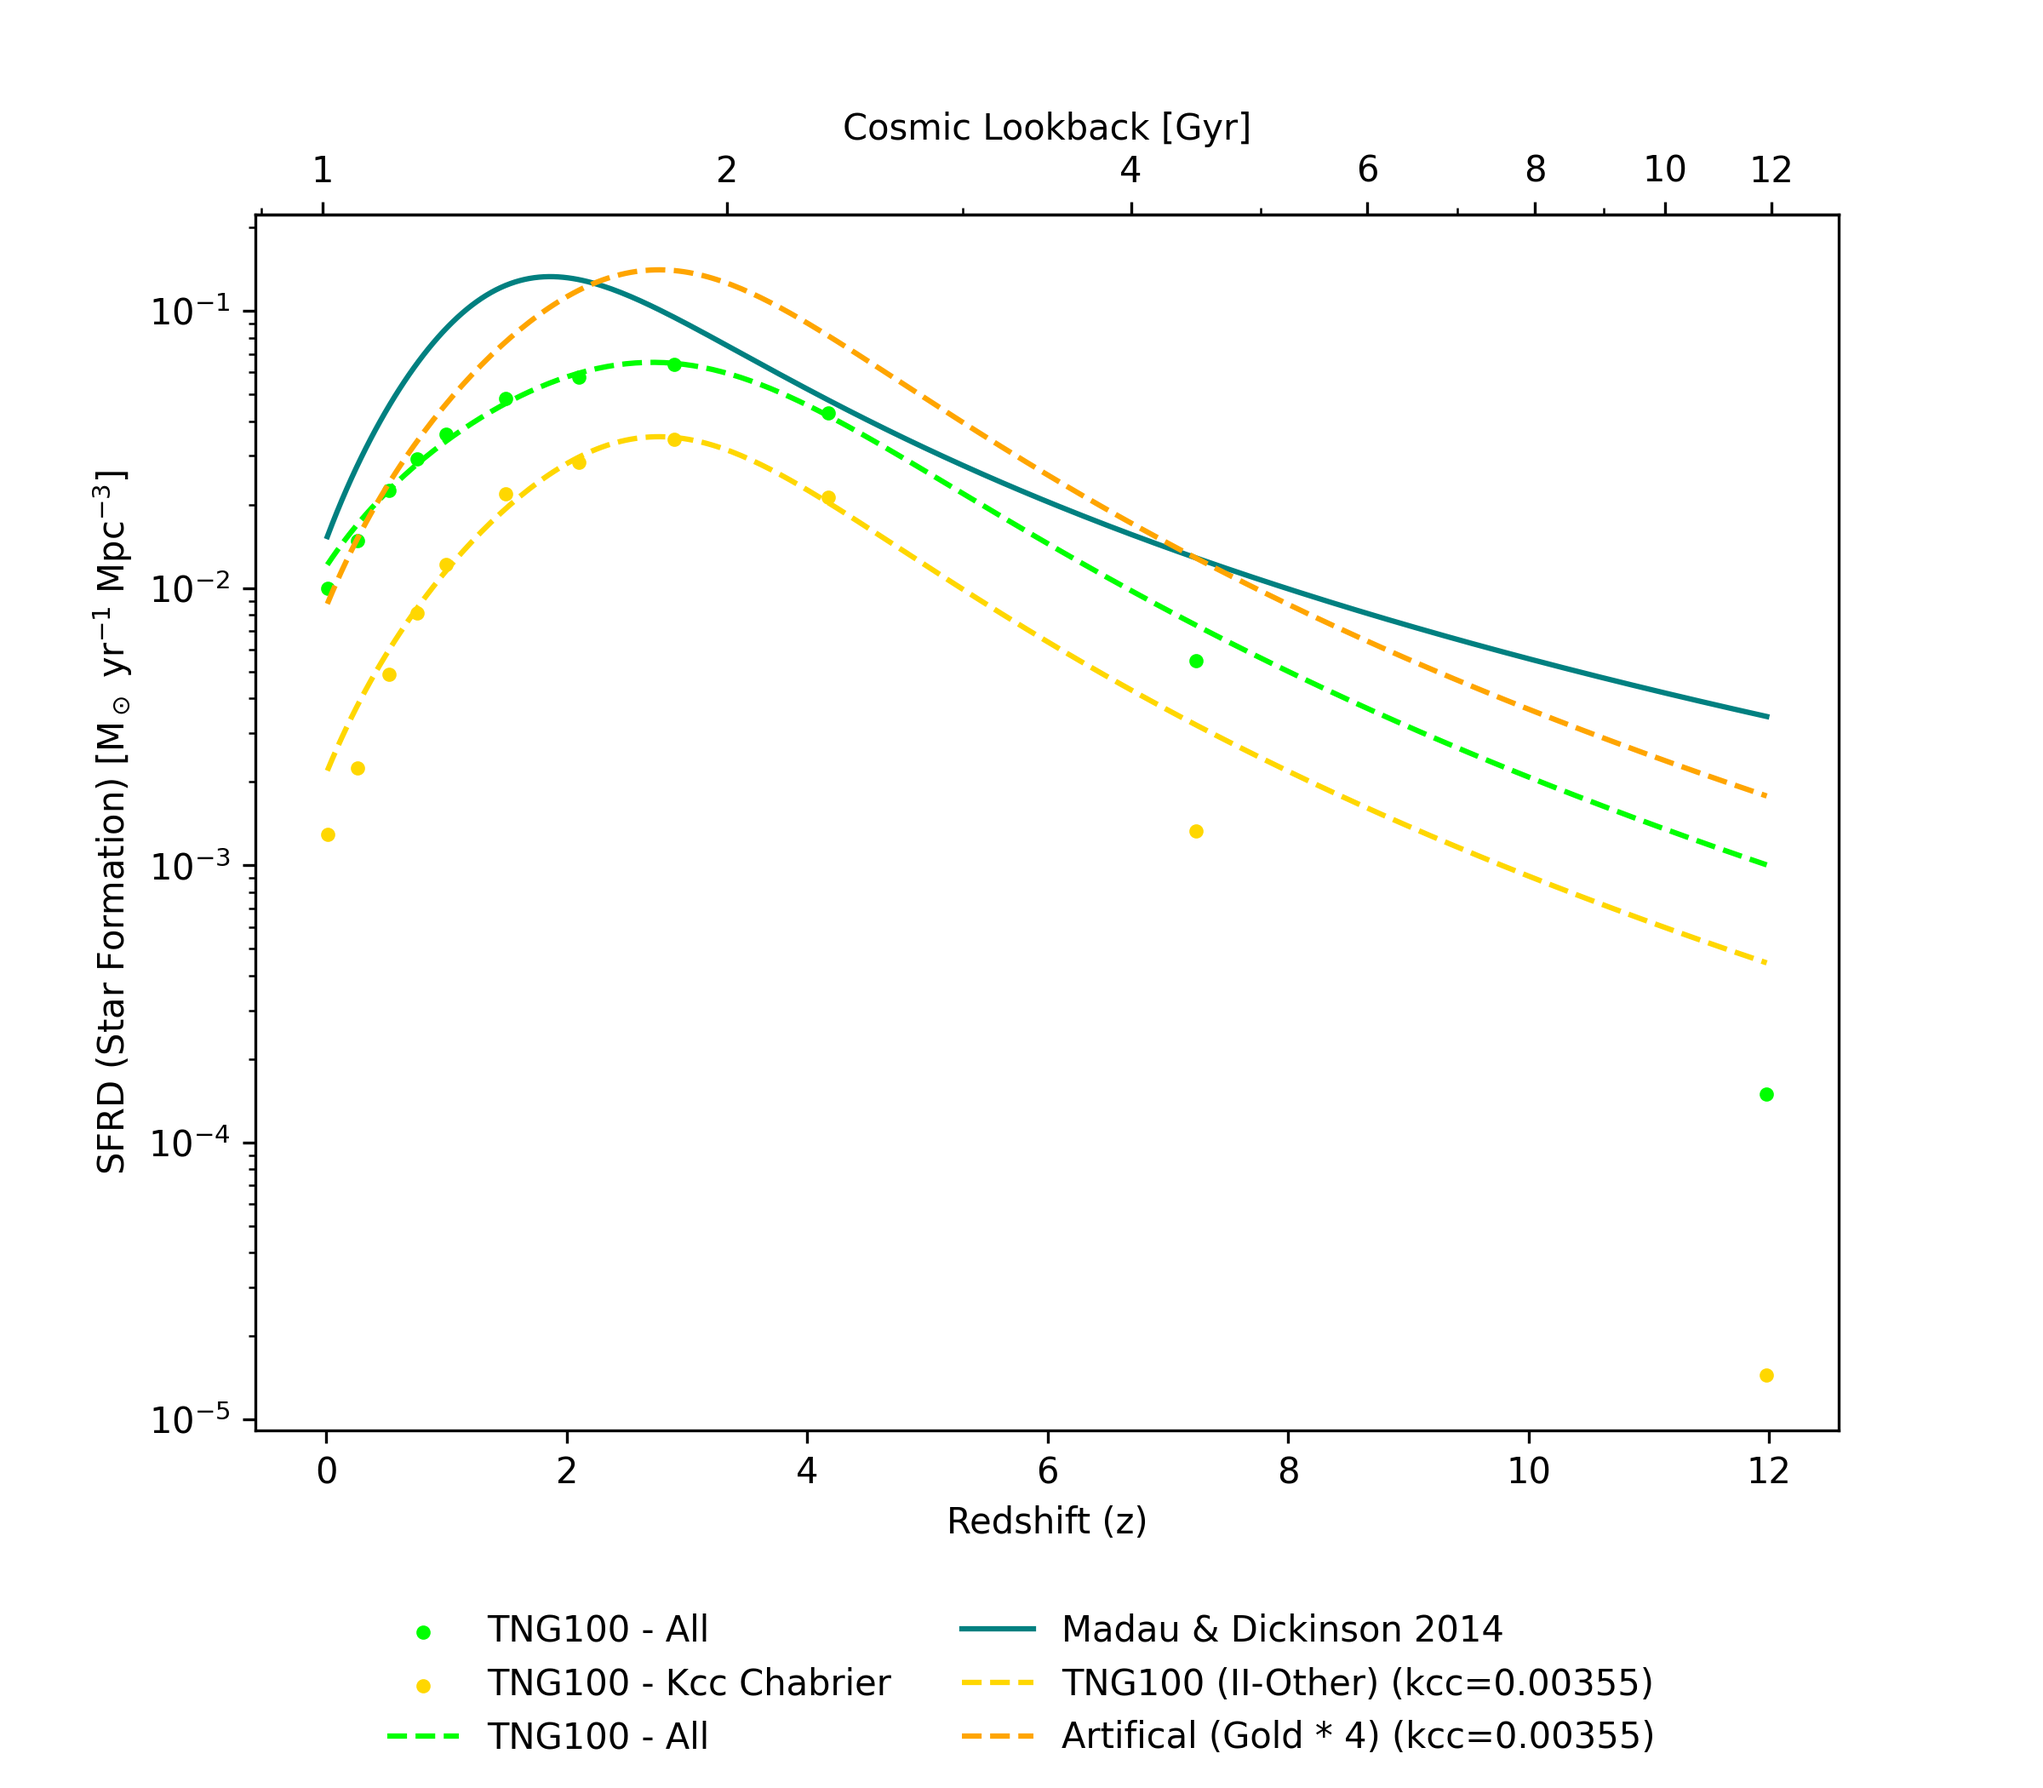
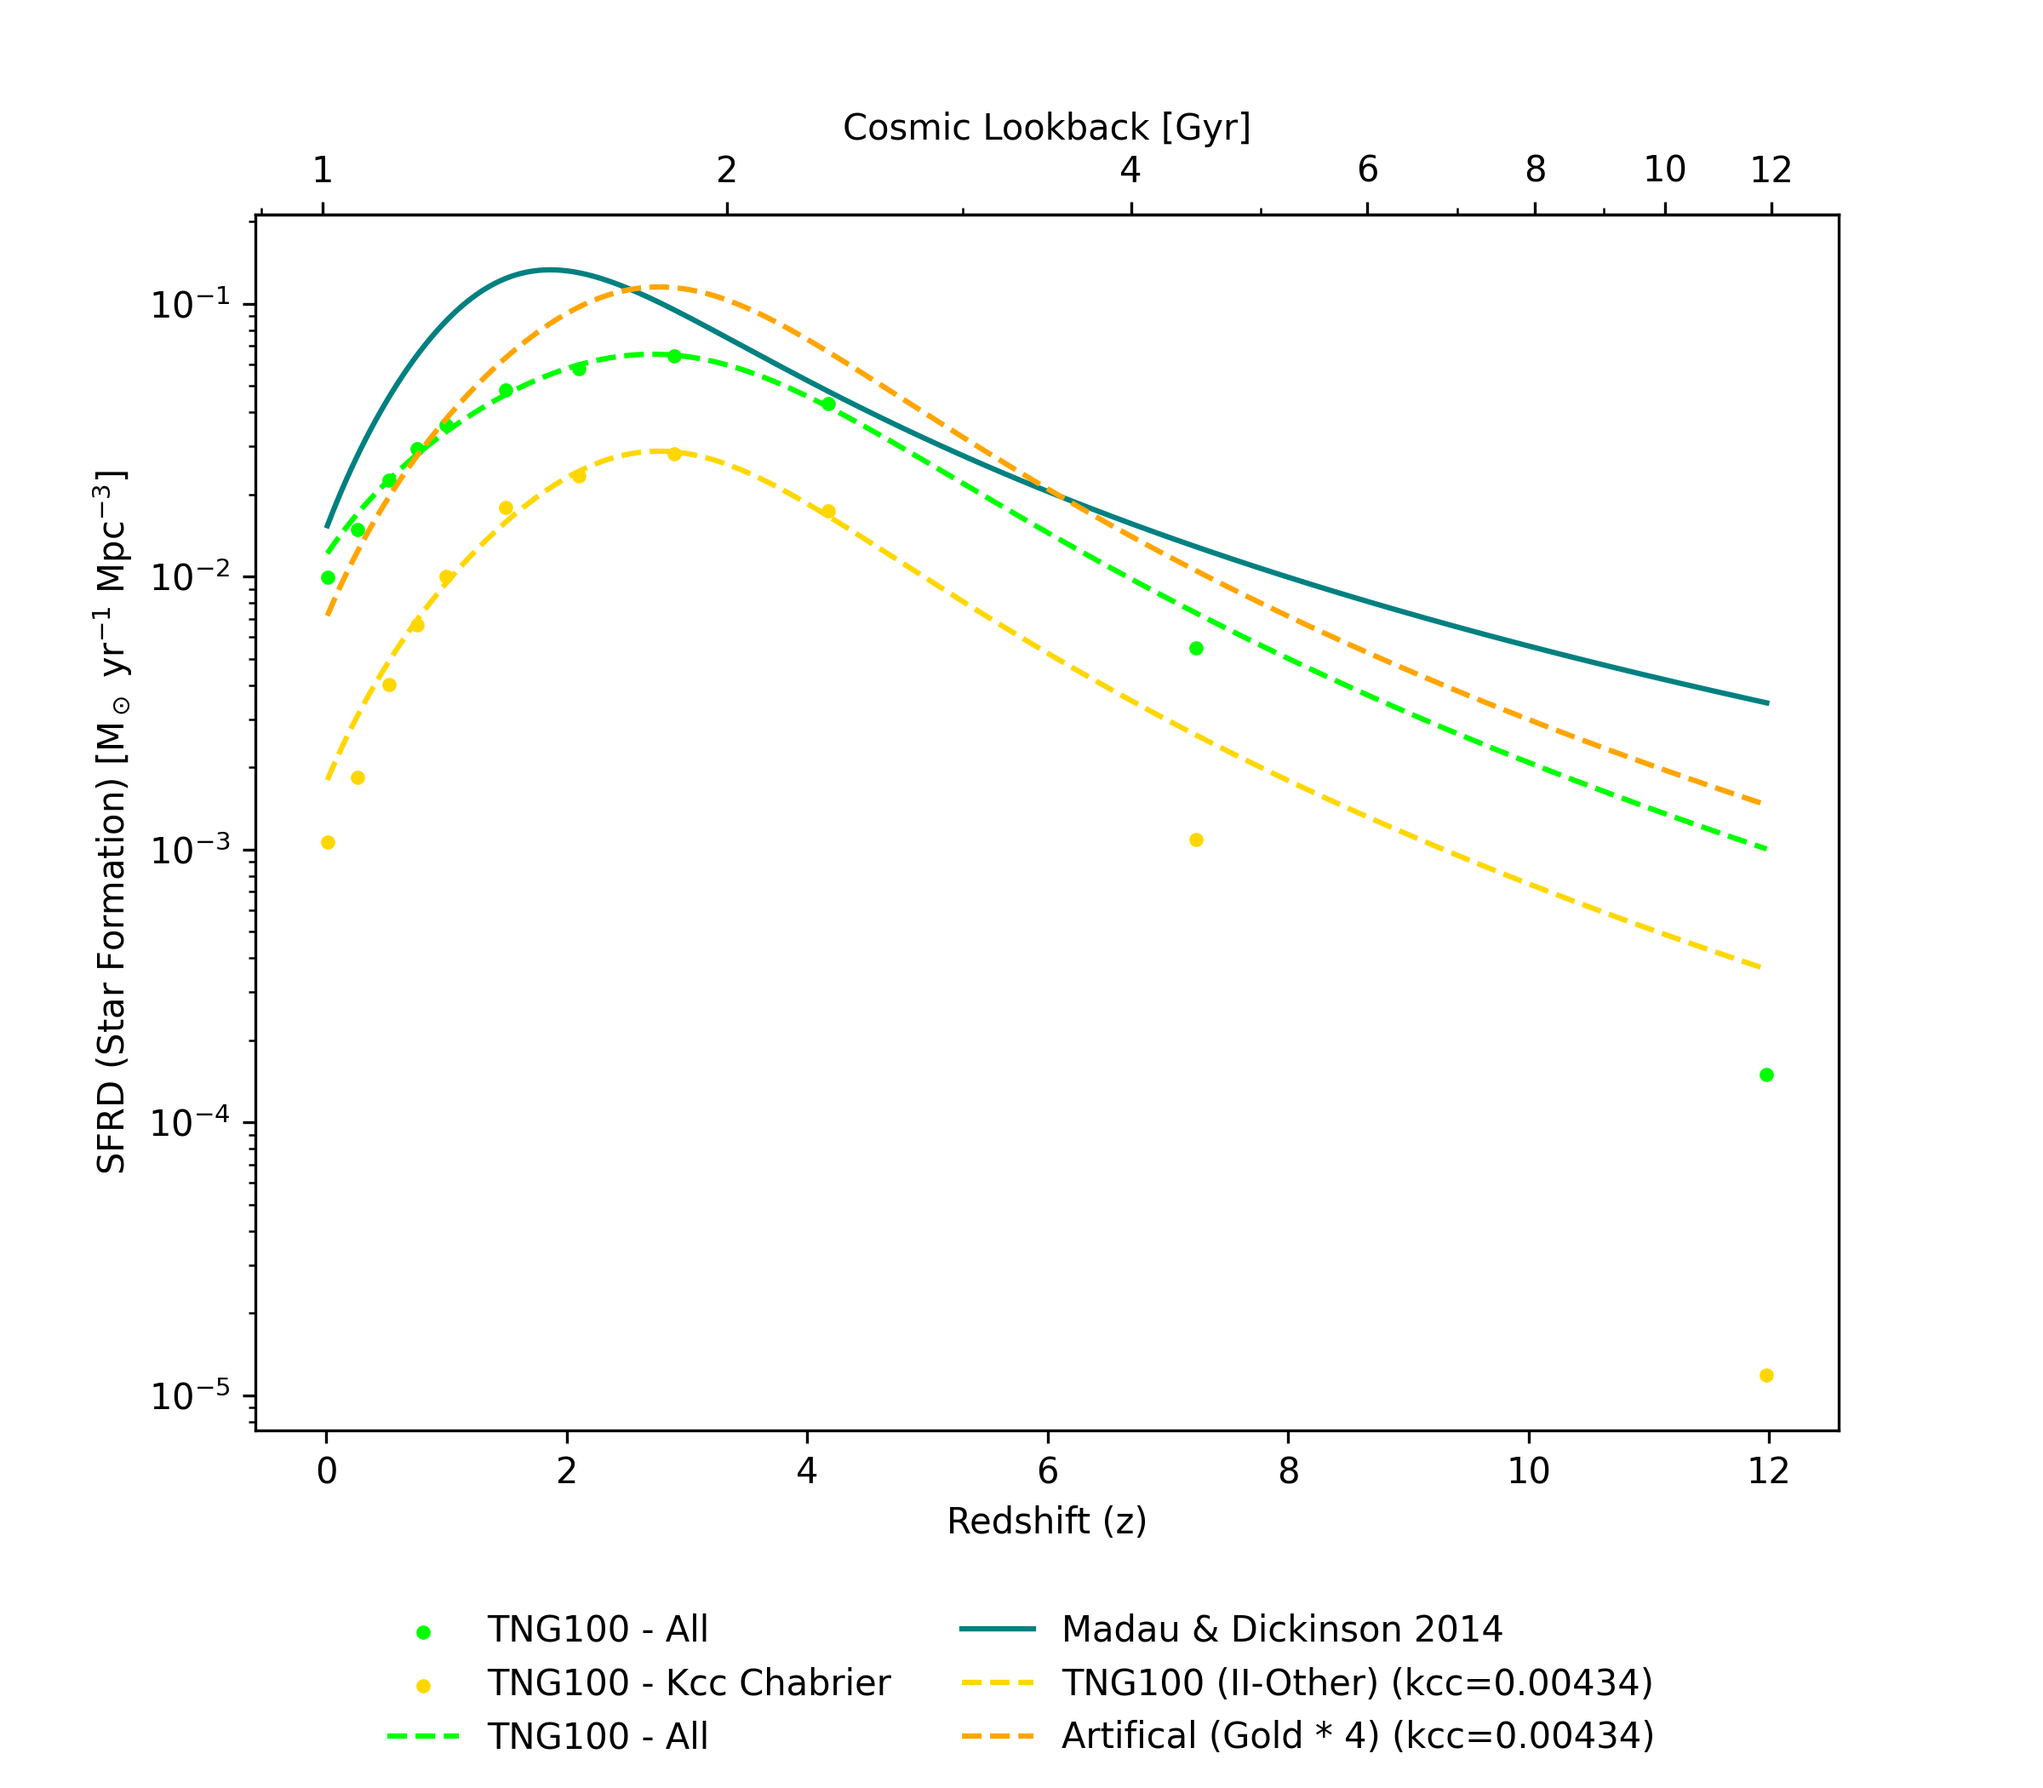
updated mass limits

diff --git a/tng.py b/tng.py
@@ -403,20 +403,44 @@ def halo_level(snaps):
 
     return True
 
-def supernova_efficiency(_imf, sn_type=2):
+"""
+def supernova_efficiency(_imf, sn_type=20):
     # Madau & Dickinson 2014
     # k_CC = integral(phi(m), m_min, m_max) / integral(m * phi(m), m_l, m_u)
     # bpass - max = 100, min = 1
 
     denominator, _ = integrate.quad(lambda m: m * _imf(m), 1, 100)
-    if sn_type == 2:
+    if sn_type == 20:
         # up to 25 solar masses for type 2 
         numerator, _ = integrate.quad(_imf, 8, 25)
         #numerator, _ = integrate.quad(_imf, 8, 100)
-    elif sn_type == 1:
+    elif sn_type == 10:
         # 25 to 100 solar mass for type 1b/c
         numerator, _ = integrate.quad(_imf, 25, 100)
         #numerator, _ = integrate.quad(_imf, 8, 100)
+
+    return numerator/denominator
+"""
+
+def supernova_efficiency(_imf, sn_type=20):
+    # Madau & Dickinson 2014
+    # k_CC = integral(phi(m), m_min, m_max) / integral(m * phi(m), m_l, m_u)
+    # bpass - max = 100, min = 1
+
+    # Smith 2014
+    # Binaries: IIP 8.5-18, II-Other 18-37, Ib 8.5-12/4
+    # IIP 8.5-13.7, II-Other 13.7-22, Ibc 22-100
+
+    denominator, _ = integrate.quad(lambda m: m * _imf(m), 1, 100)
+    if sn_type == 20:
+        # up to 25 solar masses for type 2 
+        numerator, _ = integrate.quad(_imf, 8.5, 13.7)
+    elif sn_type == 25:
+        # up to 25 solar masses for type 2 
+        numerator, _ = integrate.quad(_imf, 13.7, 22)
+    elif sn_type == 10:
+        # 25 to 100 solar mass for type 1b/c
+        numerator, _ = integrate.quad(_imf, 22, 100)
 
     return numerator/denominator
 
@@ -541,10 +565,12 @@ test_dict = {}
 for sn_type in all_sn_types:
     rates_folder = f"/Users/dan/Code/FYP/Data/TNG/Rates" + f"/{sn_type}"
     print(sn_type)
-    if sn_type in ["IIP", "II-Other"]:
-        kcc_type = 2
+    if sn_type in ["IIP"]:
+        kcc_type = 20
+    elif sn_type in ["II-Other"]:
+        kcc_type = 25
     elif sn_type in ["Ib", "Ic"]:
-        kcc_type = 1
+        kcc_type = 10
     else:
         kcc_type = None
 
@@ -599,7 +625,7 @@ for item in test_dict.items():
 
     sf_ratio = sum(csfrh/total_sfr)/len(csfrh)
     sn_ratio = sum(csnrh/total_snr)/len(csnrh)
-    print(name, sn_ratio, sf_ratio)
+    print(f'{name}: \n  SN:{sn_ratio*100:.1f}\n  SF: {sf_ratio*100:.1f}')
     #print(sum(csnrh/total_snr), len(csnrh))
     ratios.append(sn_ratio)
 

diff --git a/tng_parallel.py b/tng_parallel.py
@@ -139,7 +139,6 @@ def build_rates(snap):
 
 def main():
     snapshots = [2, 10, 20, 26, 32, 40, 50, 57, 66, 80, 98]
-    snapshots = [80]
     results = []
 
     # Use processes instead of threads for CPU-bound work
